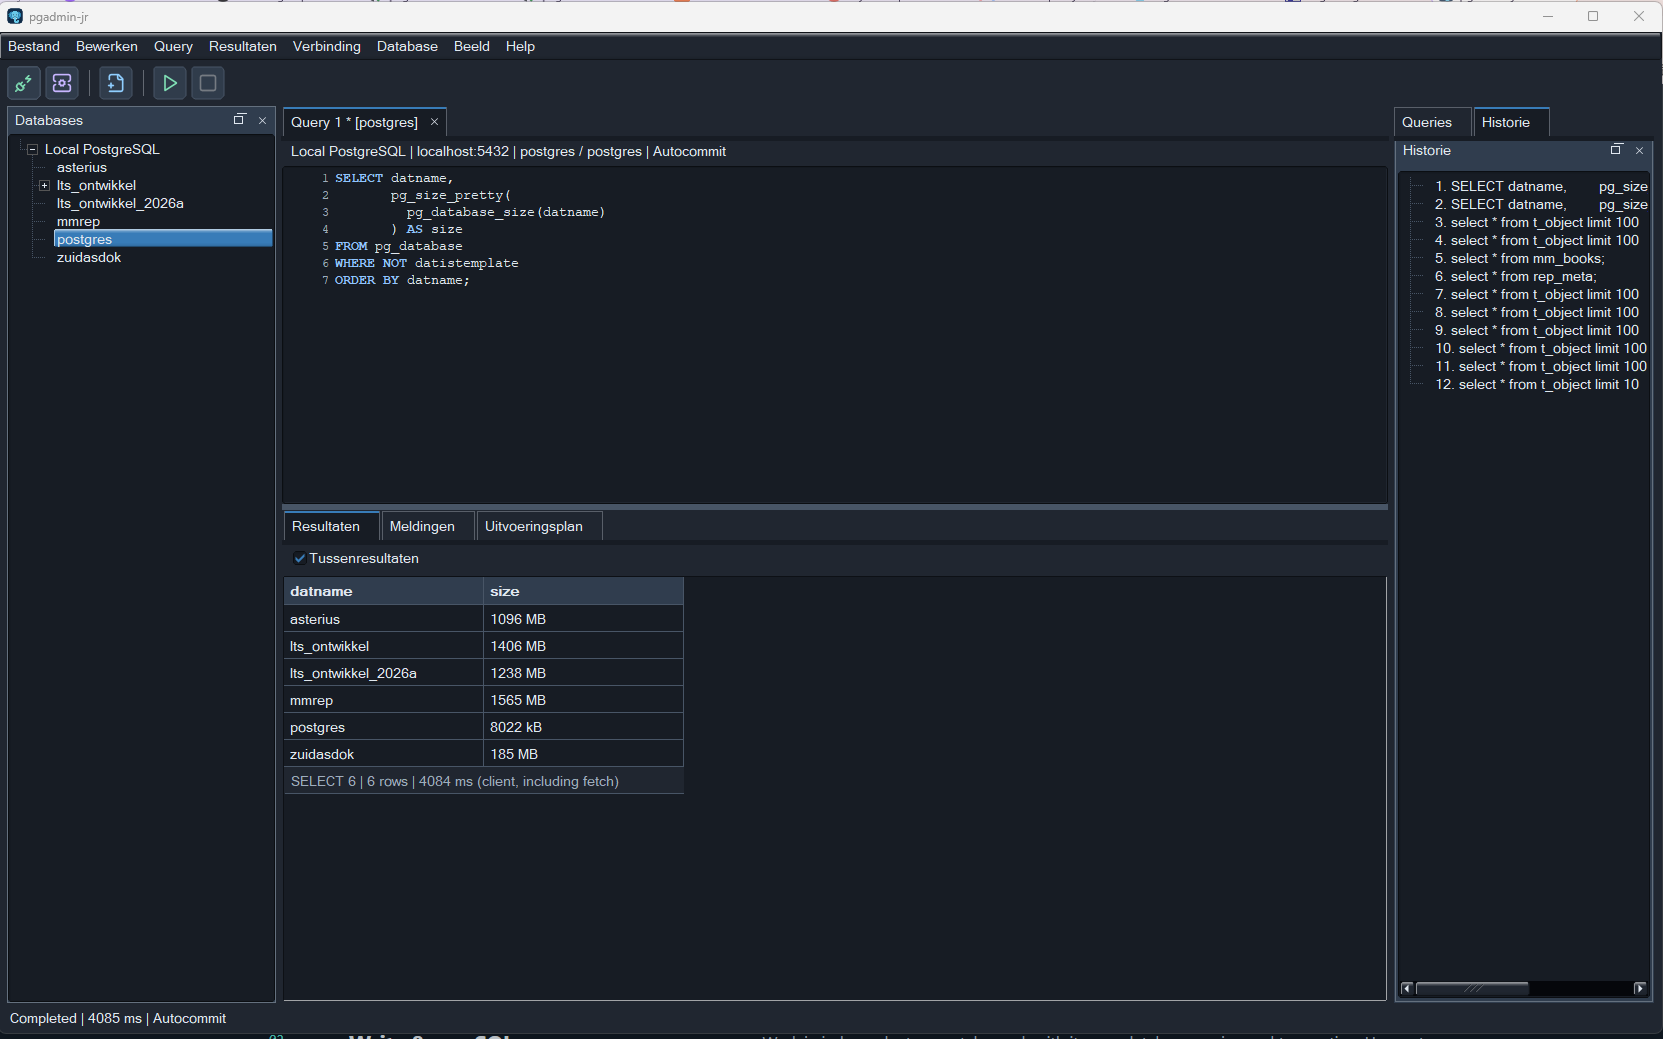
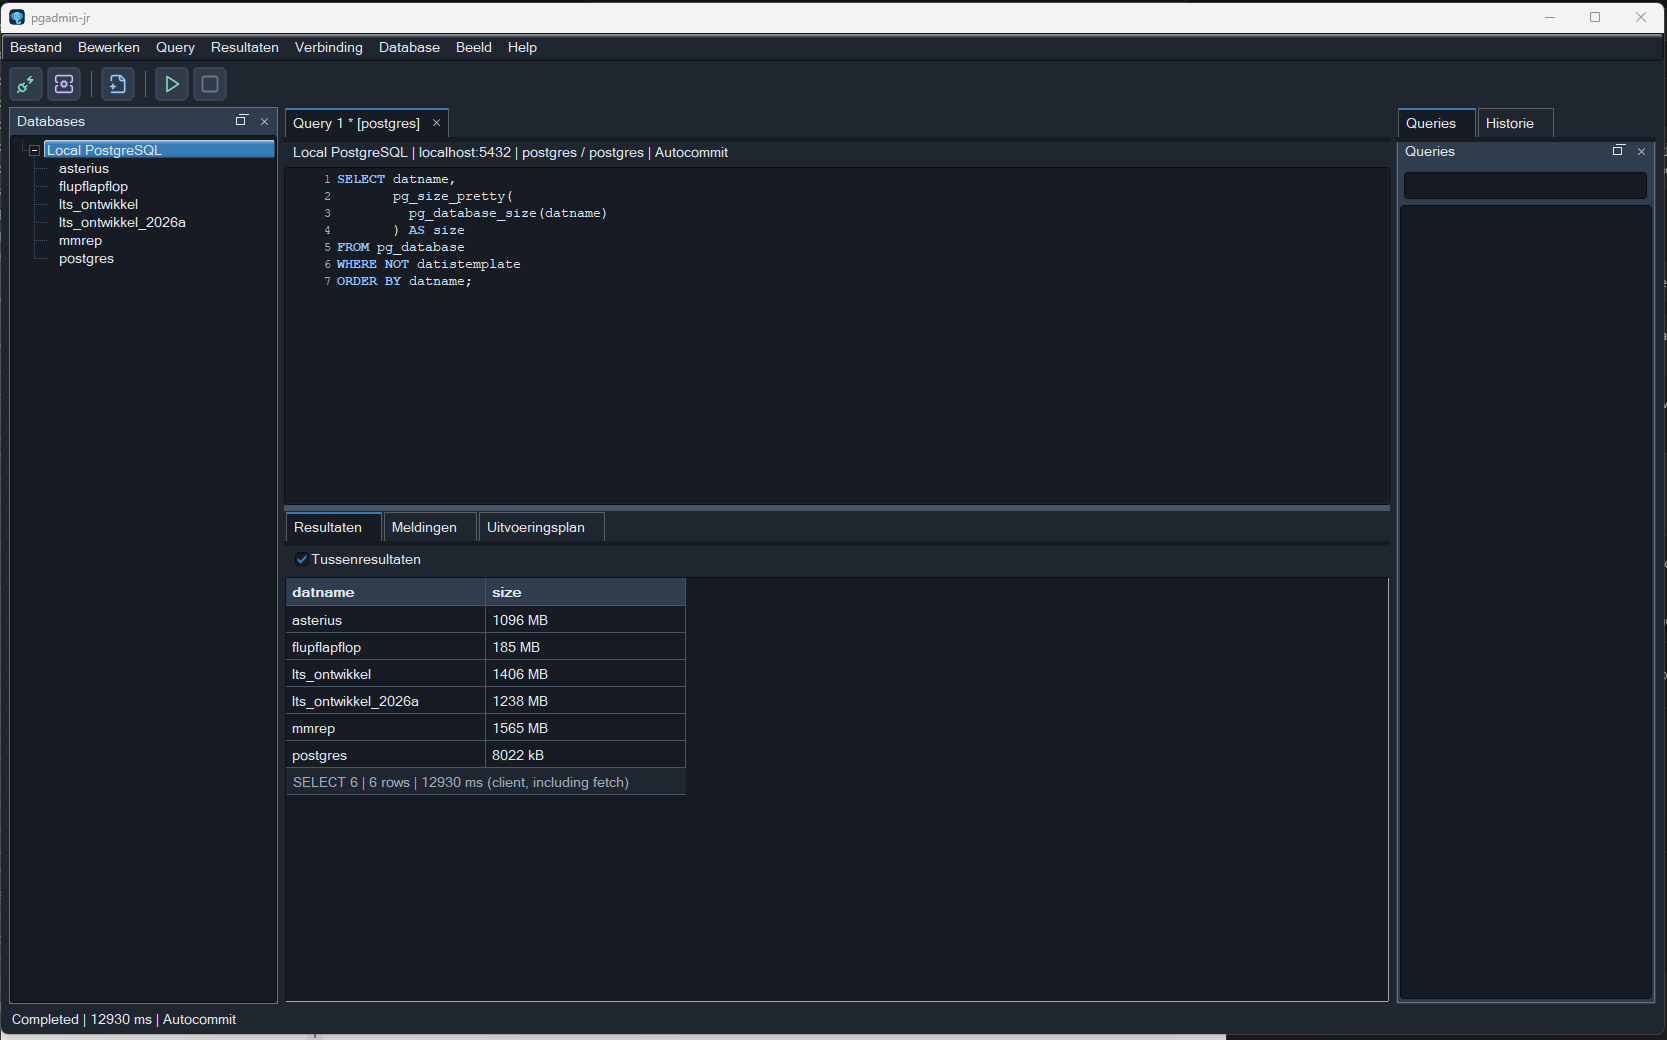
Rename database

diff --git a/docs/index.html b/docs/index.html
@@ -1,6 +1,6 @@
 ---
 layout: null
-title: pgadmin-jr — Everyday PostgreSQL work
+title: pgadmin-jr (pgadmin junior) — Native alternative to pgAdmin 4
 ---
 
 <!doctype html>
@@ -37,7 +37,7 @@ title: pgadmin-jr — Everyday PostgreSQL work
       <div class="hero-copy">
         <p class="eyebrow"><span class="status-dot" aria-hidden="true"></span> A native PostgreSQL workspace</p>
         <h1 id="hero-title">Your database.<br><span>Straight to work.</span></h1>
-        <p class="intro">Write SQL, explore your databases and get things done.<br>pgadmin-jr brings everyday PostgreSQL work into a focused desktop application.</p>
+        <p class="intro">Write SQL, explore your databases and get things done.<br>pgadmin-jr (pgadmin junior) is a native alternative to pgAdmin 4 for everyday PostgreSQL work.</p>
         <div class="hero-actions">
           <a class="button primary" href="https://github.com/hdijkema/pgadmin-jr/releases/latest">Get the latest release <span aria-hidden="true">↓</span></a>
           <a class="text-link" href="#workflow">Take a closer look <span aria-hidden="true">→</span></a>
@@ -54,8 +54,8 @@ title: pgadmin-jr — Everyday PostgreSQL work
     <section class="purpose" aria-labelledby="purpose-title">
       <p class="eyebrow">Why junior?</p>
       <div>
-        <h2 id="purpose-title">Built for the work you keep coming back to.</h2>
-        <p>The project started with a simple frustration: waiting minutes for pgAdmin 4 to start before running a query. pgadmin-jr means pgAdmin junior — a smaller, focused companion for SQL, database browsing and administration.</p>
+        <h2 id="purpose-title">A focused alternative to pgAdmin 4.</h2>
+        <p>The project started with a simple frustration: waiting minutes for pgAdmin 4 to start before running a query. pgadmin-jr, also called pgadmin junior, is an independent open-source project focused on SQL, database browsing and everyday administration.</p>
         <p><strong>Built with <a href="https://www.fltk.org/">FLTK — the Fast Light Toolkit</a>.</strong> This cross-platform C++ GUI toolkit provides the native desktop interface on Windows, Linux and macOS. pgadmin-jr uses C++17, with startup speed and responsiveness guiding its design.</p>
       </div>
     </section>

diff --git a/docs/_includes/seo.html b/docs/_includes/seo.html
@@ -24,6 +24,7 @@
   "@context": "https://schema.org",
   "@type": "SoftwareApplication",
   "name": {{ site.title | jsonify }},
+  "alternateName": {{ site.alternate_name | jsonify }},
   "url": {{ '/' | absolute_url | jsonify }},
   "description": {{ site.description | jsonify }},
   "applicationCategory": "DeveloperApplication",

diff --git a/src/fltk/admin_dialogs.cpp b/src/fltk/admin_dialogs.cpp
@@ -544,6 +544,103 @@ void Window::refreshCatalog()
         }
     tree_->redraw();
 }
+// PostgreSQL cannot rename the connected database. Use another database and leave
+// foreign clients alone; PostgreSQL reports any remaining connections or privilege errors.
+void Window::renameDatabase()
+{
+    auto selected = nodes_.find(tree_->first_selected_item());
+    if (selected == nodes_.end() || selected->second.kind != 1)
+    {
+        fl_alert("%s", tr("Select a database first."));
+        return;
+    }
+    const auto node = selected->second;
+    auto *p = profile(node.profile);
+    if (!p)
+        return;
+    const auto connection = *p;
+    auto maintenance = connection.database;
+    if (maintenance == node.database)
+        maintenance = node.database == "postgres" ? "template1" : "postgres";
+    Form form("Rename database", dialogs_, *this);
+    form.note("Server: " + connection.host + ":" + connection.port + " | Database: " + node.database);
+    auto *name = form.input("New database name", node.database);
+    auto *other = form.input("Maintenance database", maintenance);
+    form.note("Own connections to this database will close and open transactions will roll back. "
+              "Other clients are not disconnected.");
+    if (!form.run())
+        return;
+    const std::string next = name->value();
+    maintenance = other->value();
+    if (next == node.database)
+        return;
+    try
+    {
+        const auto sql = renameDatabaseSql(node.database, next);
+        auto error = nameError(maintenance);
+        if (!error.empty())
+            throw std::runtime_error(error);
+        if (maintenance == node.database)
+        {
+            fl_alert("%s", tr("Choose a different maintenance database for renaming."));
+            return;
+        }
+        if (catalog_wait_)
+        {
+            fl_alert("%s", tr("Wait for the catalog request to finish."));
+            return;
+        }
+        for (const auto &tab : queries_)
+            if (tab->profile_id == node.profile && tab->database == node.database &&
+                tab->session && tab->session->busy())
+            {
+                fl_alert("%s", tr("Cancel running queries for this database first."));
+                return;
+            }
+        for (auto &tab : queries_)
+            if (tab->profile_id == node.profile && tab->database == node.database)
+            {
+                tab->session.reset();
+                updateTarget(*tab);
+            }
+        catalog_.reset();
+        auto result = sessionDialog(dialogs_, *this, connection, maintenance,
+                                    secrets_[node.profile], sql, tr("Rename database"));
+        if (!result.success)
+            return;
+        databaseRenamed(node.profile, node.database, next);
+        refreshCatalog();
+        for (const auto &entry : nodes_)
+            if (entry.second.kind == 0 && entry.second.profile == node.profile)
+            {
+                tree_->select_only(entry.first, 0);
+                browse(entry.first);
+                break;
+            }
+    }
+    catch (const std::exception &ex)
+    {
+        fl_alert("%s", ex.what());
+    }
+}
+// Keep scripts, custom tab names and result data; only future connection targets change.
+void Window::databaseRenamed(const std::string &id, const std::string &from, const std::string &to)
+{
+    if (auto *p = profile(id))
+        if (p->database == from)
+            p->database = to;
+    for (auto &entry : nodes_)
+        if (entry.second.profile == id && entry.second.database == from)
+            entry.second.database = to;
+    for (auto &tab : queries_)
+        if (tab->profile_id == id && tab->database == from)
+        {
+            tab->database = to;
+            tab->rename(tab->name);
+            updateTarget(*tab);
+        }
+    save();
+}
 void Window::databaseTask(int operation)
 {
     auto it = nodes_.find(tree_->first_selected_item());

diff --git a/src/fltk/window.cpp b/src/fltk/window.cpp
@@ -437,6 +437,8 @@ Window::Window(FLTK_Css &stylesheet, std::filesystem::path settings, bool smoke)
         "Database/Refresh browser", 0,
         [](Fl_Widget *, void *p) { static_cast<Window *>(p)->refreshCatalog(); }, FL_MENU_DIVIDER);
     action("Database/Drop...", 0, [](Fl_Widget *, void *p) { static_cast<Window *>(p)->databaseTask(3); });
+    action("Database/Rename database...", 0,
+           [](Fl_Widget *, void *p) { static_cast<Window *>(p)->renameDatabase(); });
     action("View/Database browser", 0,
            [](Fl_Widget *, void *p)
            {
@@ -1258,14 +1260,15 @@ void Window::treeClick()
                                 "Create database...",
                                 "Backup...",
                                 "Restore...",
+                                "Rename database...",
                                 "Drop database...",
                                 "VACUUM...",
                                 "ANALYZE...",
                                 "REINDEX...",
                                 "Server roles / database privileges...",
                                 "Refresh"};
-        Fl_Menu_Item menu[15]{};
-        for (int i = 0; i < 14; ++i)
+        Fl_Menu_Item menu[16]{};
+        for (int i = 0; i < 15; ++i)
             menu[i].label(tr(labels[i]));
         const int kind = found->second.kind;
         if (kind == 0 || kind == 5)
@@ -1274,14 +1277,14 @@ void Window::treeClick()
             for (int i : {2, 3, 4})
                 menu[i].flags |= FL_MENU_INACTIVE;
         if (kind != 1)
-            for (int i : {6, 7, 8})
+            for (int i : {6, 7, 8, 9})
                 menu[i].flags |= FL_MENU_INACTIVE;
         const auto &type = found->second.object_type;
         if (kind != 0 && kind != 1 &&
             !(kind == 3 && (type == "r" || type == "p" || type == "m")))
-            for (int i : {9, 10, 11})
+            for (int i : {10, 11, 12})
                 menu[i].flags |= FL_MENU_INACTIVE;
-        for (int i : {1, 4, 8, 11, 12})
+        for (int i : {1, 4, 9, 12, 13})
             menu[i].flags |= FL_MENU_DIVIDER;
         auto *selected = menu[0].popup(Fl::event_x(), Fl::event_y());
         if (!selected)
@@ -1314,10 +1317,12 @@ void Window::treeClick()
         else if (action == 7)
             databaseTask(1);
         else if (action == 8)
+            renameDatabase();
+        else if (action == 9)
             databaseTask(3);
-        else if (action >= 9 && action <= 11)
-            databaseTask(static_cast<int>(action) - 5);
-        else if (action == 12)
+        else if (action >= 10 && action <= 12)
+            databaseTask(static_cast<int>(action) - 6);
+        else if (action == 13)
             manageRoles();
         else
             refreshCatalog();

diff --git a/tests/fltk_core.cpp b/tests/fltk_core.cpp
@@ -111,6 +111,22 @@ int main(int argc, char **argv)
             rejected = true;
         }
         require(rejected, "Query path traversal rejected");
+        require(pgjr::renameDatabaseSql("old\"db", "new;db") ==
+                    "ALTER DATABASE \"old\"\"db\" RENAME TO \"new;db\";",
+                "Database rename quotes both identifiers, including SQL punctuation");
+        for (const auto &invalid : {std::string(), std::string(64, 'x'), std::string("bad\nname")})
+        {
+            rejected = false;
+            try
+            {
+                pgjr::renameDatabaseSql("database", invalid);
+            }
+            catch (const std::exception &)
+            {
+                rejected = true;
+            }
+            require(rejected, "Invalid rename target rejected before connecting");
+        }
         require(pgjr::maintenanceSql(pgjr::Task::Vacuum, "db", "a\"b", "table") ==
                     "VACUUM (VERBOSE, ANALYZE) \"a\"\"b\".\"table\";",
                 "Maintenance identifier quoting");
@@ -343,6 +359,19 @@ int main(int argc, char **argv)
             require(wait(fixture).back().success, "Role fixture cleanup");
             fixture.execute("SELECT pg_terminate_backend(pg_backend_pid());");
             wait(fixture);
+            other.execute(pgjr::renameDatabaseSql(database, "postgres"));
+            require(!wait(other).back().success, "Rename refuses an existing database name");
+            auto renamed = database + " renamed\"";
+            other.execute(pgjr::renameDatabaseSql(database, renamed));
+            require(wait(other).back().success, "Rename disposable database from maintenance session");
+            fixture.connect(profile, renamed, "");
+            require(wait(fixture).back().kind == pgjr::Event::Connected, "Connect to renamed database");
+            fixture.execute("SELECT data FROM fixture;");
+            require(wait(fixture).back().success, "Database rename preserves restored data");
+            fixture.execute("SELECT pg_terminate_backend(pg_backend_pid());");
+            wait(fixture);
+            other.execute(pgjr::renameDatabaseSql(renamed, database));
+            require(wait(other).back().success, "Rename back for fixture cleanup");
             request.task = pgjr::Task::Drop;
             request.file.clear();
             require(runTool(request), "Drop disposable database");

diff --git a/tests/fltk_ui.cpp b/tests/fltk_ui.cpp
@@ -6,6 +6,7 @@
 #include <FL/Fl_PNG_Image.H>
 #include <FL/Fl_Help_View.H>
 #include <fstream>
+#include <cstdlib>
 #include <iostream>
 #include <stdexcept>
 #ifdef _WIN32
@@ -141,6 +142,27 @@ struct CatalogTest
         window.refreshCatalog();
         require(window.nodes_.size() == 1 && server->children() == 0,
                 "Catalog refresh releases all group, relation and routine metadata");
+        window.newQuery(profile.id, profile.database, "SELECT 42;", "Keep this name");
+        auto *renamed = findTab(window, "Keep this name");
+        window.newQuery(profile.id, "unrelated_database", {}, "Other database");
+        auto *unrelated = findTab(window, "Other database");
+        window.databaseRenamed(profile.id, profile.database, "renamed_database");
+        auto *script = renamed->sql.text();
+        const std::string sql = script;
+        std::free(script);
+        require(renamed->database == "renamed_database" && renamed->name == "Keep this name" &&
+                    sql == "SELECT 42;",
+                "Renaming updates connection targets while keeping custom tab names");
+        require(unrelated->database == "unrelated_database" &&
+                    window.profile(profile.id)->database == "renamed_database",
+                "Renaming updates maintenance database without changing unrelated tabs");
+        const auto saved = Json::parse(readFile(window.settings_));
+        require(saved["profiles"][0]["database"] == "renamed_database",
+                "Renamed maintenance database is persisted");
+        window.databaseRenamed(profile.id, "renamed_database", profile.database);
+        window.closeQuery();
+        renamed->dirty = false;
+        window.closeQuery();
     }
 };
 } // namespace pgjr

diff --git a/src/fltk/window.h b/src/fltk/window.h
@@ -100,6 +100,9 @@ class Window : public Fl_Css_Window
     void exportCsv();
     void exportExcel();
     void databaseTask(int);
+    // Rename a selected database through a separate maintenance session; closes idle
+    // own sessions after confirmation and updates workspace targets only on success.
+    void renameDatabase();
     void manageRoles();
     void inspectObject();
     void editSelectedProfile();
@@ -172,6 +175,8 @@ class Window : public Fl_Css_Window
     bool smoke_ = false, restore_maximized_ = false;
     Json layouts_ = Json::object(), dialogs_ = Json::object(), normal_rectangle_ = Json::object();
     void refreshCatalog();
+    // Apply a successful server rename to this profile and its tabs, then save targets.
+    void databaseRenamed(const std::string &profile, const std::string &from, const std::string &to);
     void updateTarget(QueryTab &);
 };
 } // namespace pgjr

diff --git a/src/fltk/tool_job.h b/src/fltk/tool_job.h
@@ -25,6 +25,8 @@ struct ToolRequest
     std::string schema, relation;
 };
 std::string nameError(const std::string &);
+// Validate both database names and quote them as identifiers in one ALTER DATABASE.
+std::string renameDatabaseSql(const std::string &from, const std::string &to);
 std::string maintenanceSql(Task, const std::string &database, const std::string &schema = {},
                            const std::string &relation = {}, bool analyze = true, bool concurrent = true);
 std::string roleSql(const Json &desired, const Json &original = Json::object());

diff --git a/src/fltk/admin_sql.cpp b/src/fltk/admin_sql.cpp
@@ -23,6 +23,12 @@ void valid(const std::string &name)
         throw std::runtime_error(error);
 }
 } // namespace
+std::string renameDatabaseSql(const std::string &from, const std::string &to)
+{
+    valid(from);
+    valid(to);
+    return "ALTER DATABASE " + quoteIdentifier(from) + " RENAME TO " + quoteIdentifier(to) + ";";
+}
 std::string maintenanceSql(Task task, const std::string &database, const std::string &schema,
                            const std::string &relation, bool analyze, bool concurrent)
 {

diff --git a/docs/USER-GUIDE.md b/docs/USER-GUIDE.md
@@ -98,7 +98,15 @@ existing transaction. Sequences and external effects are not reversible.
 ## Administration
 
 Use the database/object context menu for backup, restore, properties, maintenance
-and database creation/deletion. Backups use pg_dump; archives restore with
+and database creation/deletion. **Rename database...** is available when a database
+is selected. Enter the new name and a different maintenance database. Renaming
+closes this profile's idle sessions to the target database, rolling back open
+transactions; stop running queries first. Connections from other clients or profiles
+are not forced closed. PostgreSQL checks ownership and permissions. After success,
+the browser reloads and this profile's query tabs and maintenance database setting
+follow the new name. Scripts and custom tab names are preserved.
+
+Backups use pg_dump; archives restore with
 pg_restore, SQL files with psql. Restore stops on the first error and uses a single
 transaction. Inspect the log, not just elapsed time. Cancellation can take time
 while a tool/server finishes its current work.

diff --git a/docs/DEVELOPMENT.md b/docs/DEVELOPMENT.md
@@ -82,6 +82,13 @@ by OID; relation definitions continue through pg_dump. Category captions are
 localized separately from object identifiers. Browser UI tests feed isolated
 catalog fixtures through this path without opening database connections.
 
+`Window::renameDatabase` uses `renameDatabaseSql` to validate and quote identifiers,
+then runs ALTER DATABASE through `sessionDialog` on a different maintenance
+database. It refuses busy target sessions, closes idle sessions for that profile,
+and leaves foreign connections to PostgreSQL's normal checks. Only server success
+calls `databaseRenamed` to update and save the profile and query-tab targets;
+catalog refresh reloads the affected server. Failed operations retain old targets.
+
 STL models contain no widget pointers. ResultTable maps values to fltk-cell
 renderers. Editor overlays belong to fltk-cell, separately from drawing. Keep
 wrappers small; the XLSX wrapper only writes result cells and closes the workbook.

diff --git a/README.md b/README.md
@@ -1,9 +1,10 @@
-# pgadmin-jr
+# pgadmin-jr (pgadmin junior)
 
 <img src="assets/icons/pgadmin-jr.svg" width="96" alt="pgadmin-jr elephant icon">
 
-**A native desktop application for everyday PostgreSQL work.** The name means
-pgAdmin junior: a focused companion for the PostgreSQL tasks you use most often.
+**A native alternative to pgAdmin 4 for everyday PostgreSQL work.** Also known
+as pgadmin junior, pgadmin-jr is an independent open-source project focused on
+the PostgreSQL tasks you use most often.
 
 [Project homepage](https://hdijkema.github.io/pgadmin-jr/)
 
